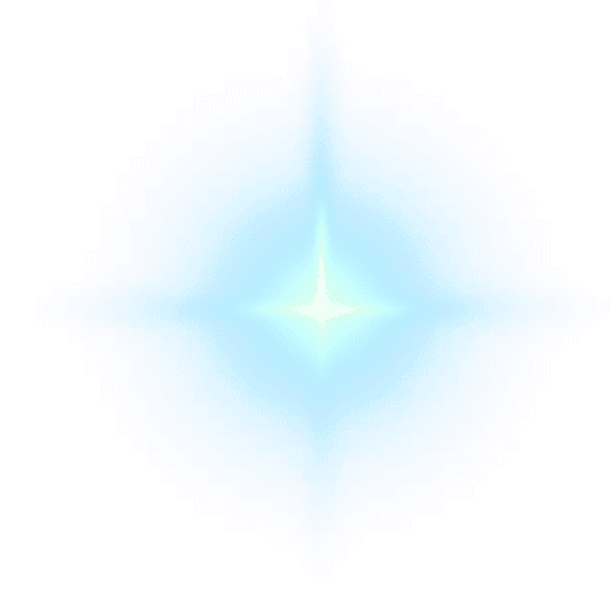
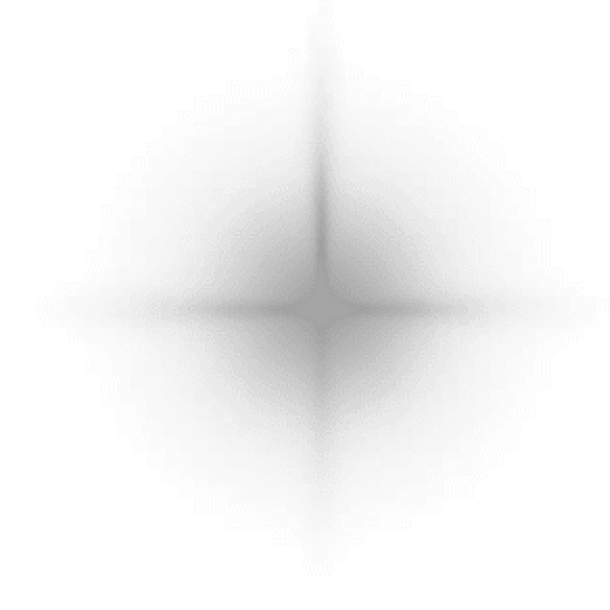
New light pic Small changes

Changed region(s): [[0.2492, 0.1869, 0.8098, 0.7475]]

diff --git a/test.galaxy.py b/test.galaxy.py
@@ -16,10 +16,16 @@ class Star(object):
         self.radius = None
         self.scale = 0.05
         self.sphere = Entity(model='sphere', collider='sphere', x=x, y=y, z=z, scale=self.scale, color=rgb(0, 0, 0, 0))
-        self.entity = [Sprite('tex/light', filtering=False, scale=self.scale, color=c, x=x, y=y, z=z, double_sided=True, rotation=(0, 0, 0))]
+        self.entity = []
+        self.entity.append(Sprite('tex/light', filtering=False, scale=self.scale, color=c, x=x, y=y, z=z, double_sided=True, rotation=(0, 0, 0)))
         self.entity.append(Sprite('tex/light', filtering=False, scale=self.scale, color=c, x=x, y=y, z=z, double_sided=True, rotation=(0, 90, 0)))
         self.entity.append(Sprite('tex/light', filtering=False, scale=self.scale, color=c, x=x, y=y, z=z, double_sided=True, rotation=(0, 0, 90)))
         self.entity.append(Sprite('tex/light', filtering=False, scale=self.scale, color=c, x=x, y=y, z=z, double_sided=True, rotation=(90, 0, 0)))
+
+        # Rotation 45°
+        self.entity.append(Sprite('tex/light', filtering=False, scale=self.scale, color=c, x=x, y=y, z=z, double_sided=True, rotation=(0, 45, 0)))
+        self.entity.append(Sprite('tex/light', filtering=False, scale=self.scale, color=c, x=x, y=y, z=z, double_sided=True, rotation=(0, 0, 45)))
+        self.entity.append(Sprite('tex/light', filtering=False, scale=self.scale, color=c, x=x, y=y, z=z, double_sided=True, rotation=(45, 0, 0)))
 
         self.connection = 0
         self.nearest_star = []
@@ -29,14 +35,15 @@ class Star(object):
         self.text.visible = False
         s = 0
         z_temp = int(self.z * 10)
-        if z_temp <= -2:
-            s = 0.1
-        elif z_temp == -1:
-            s = 0.08
-        elif z_temp == 1:
-            s = 0.06
-        elif z_temp >= 2:
-            s = 0.04
+        s = 0.1
+        # if z_temp <= -2:
+        #     s = 0.17
+        # elif z_temp == -1:
+        #     s = 0.13
+        # elif z_temp == 1:
+        #     s = 0.1
+        # elif z_temp >= 2:
+        #     s = 0.07
 
         for e in self.entity:
             e.scale = s
@@ -57,24 +64,25 @@ EditorCamera()
 
 angle = 0
 radius = 0
-count = 100
+count = 25
 
 
 stars = []
 
 for _ in range(count):
     angle += 10/count
-    radius += .3
+    radius += .15
     x = np.sin(angle) * radius/10 + random.random()
     z = np.cos(angle) * radius/10 + random.random()
-    y = random.random()/2.5
+    y = random.random() / 6
     #Entity(model="sphere", scale=0.1, x=x, y=y, color=color.white)
-    stars.append(Star(x=x, y=y, z=z, c=color.white))
+    stars.append(Star(x=x, y=y, z=z, c=color.rgb(155 + random.randint(0, 100),  155 + random.randint(0, 100), 155 + random.randint(0, 100), 255)))
     x = -np.sin(angle) * radius/10 + random.random()
     z = -np.cos(angle) * radius/10 + random.random()
-    y = -random.random() / 2.5
+    y = -random.random()  / 6
     #Entity(model="sphere", scale=0.1, x=x, y=y, color=color.yellow)
-    stars.append(Star(x=x, y=y, z=z, c=color.white))
+    stars.append(Star(x=x, y=y, z=z, c=color.rgb(155 + random.randint(0, 100),  155 + random.randint(0, 100), 155 + random.randint(0, 100), 255)))
+#    stars.append(Star(x=x, y=y, z=z, c=color.white))
 
 
 cnt = 0
@@ -92,35 +100,39 @@ for star in stars:
             star.nearest_star.append(j)
 
 for star in stars:
+    #print(star.id, star.nearest_star[-1].id)
+    #print(star.z*10)
+    points = [Vec3(star.x, star.y, star.z), Vec3(star.nearest_star[-1].x, star.nearest_star[-1].y, star.nearest_star[-1].z)]
+    star_calc = int(star.z * 10)
+    t = 140
+    # if star_calc <= -2:
+    #     t = 140
+    # elif star_calc == -1:
+    #     t = 110
+    # elif star_calc == 1:
+    #     t = 80
+    # elif star_calc >= 2:
+    #     t = 50
+    # else:
+    #     t = 20
+    star.scale = t
+    #star.update()
+
     try:
-        #print(star.id, star.nearest_star[-1].id)
-        #print(star.z*10)
-        points = [Vec3(star.x, star.y, star.z), Vec3(star.nearest_star[-1].x, star.nearest_star[-1].y, star.nearest_star[-1].z)]
-        star_calc = int(star.z * 10)
-        if star_calc <= -2:
-            t = 96
-        elif star_calc == -1:
-            t = 64
-        elif star_calc == 1:
-            t = 48
-        elif star_calc >= 2:
-            t = 32
-        else:
-            t = 16
         Entity(model=Mesh(vertices=points, mode='line', thickness=2), color=rgb(0, 64, 255, t / 3))
         Entity(model=Mesh(vertices=points, mode='line', thickness=1), color=rgb(255, 255, 255, t / 3))
         #print(star.id, star.nearest_star[-2].id)
         points = [Vec3(star.x, star.y, star.z), Vec3(star.nearest_star[-2].x, star.nearest_star[-2].y, star.nearest_star[-2].z)]
         Entity(model=Mesh(vertices=points, mode='line', thickness=2), color=rgb(0, 64, 255, t / 3))
         Entity(model=Mesh(vertices=points, mode='line', thickness=1), color=rgb(255, 255, 255, t / 3))
-        #print(star.z)
+    #print(star.z)
     except:
         pass
 
 
 def update():
-    for star in stars:
-        star.update()
+    for s in stars:
+        s.update()
 
 
 def input(key):
@@ -128,16 +140,16 @@ def input(key):
 
     if mouse.left:
         pos_x = mouse.x
-        pos_y = mouse.y
+        #pos_y = mouse.y
     else:
         pos_x = 0
-        pos_y = 0
+        #pos_y = 0
 
     if pos_x < mouse.x:
-        print("<")
+        print(">")
         # rotate clockwise
     elif pos_x > mouse.x:
-        print(">")
+        print("<")
         # rotate counterclockwise
 
 
@@ -151,5 +163,5 @@ window.vsync = False
 #camera.rotation_z = 30
 camera.position = (0, 10, -20)
 camera.rotation_x = 25
-window.color = color.rgba(10, 10, 10, 0)
+window.color = color.rgba(16, 16, 16, 0)
 app.run()

diff --git a/test.system.py b/test.system.py
@@ -60,7 +60,7 @@ class Sun(object):
 class Background(object):
     def __init__(self):
         DirectionalLight(x=20, y=10, z=10, shadows=True, rotation=(45, -45, 45), color=color.rgba(100, 100, 100, 16))
-        Sky(model="sphere", double_sided=True, texture="tex/8k_stars", rotation=(0, 90, 0))
+        #Sky(model="sphere", double_sided=True, texture="tex/8k_stars", rotation=(0, 90, 0))
         #Entity(model='sphere', scale=50, texture="tex/8k_stars", double_sided=True, shader=lit_with_shadows_shader)
 
 
@@ -94,20 +94,13 @@ def mouse_action():
 
 
 def key_action():
-    if held_keys['e']:
-        camera.position += (0, time.dt, 0)
-    if held_keys['q']:
-        camera.position -= (0, time.dt, 0)
-    if held_keys['w']:
-        camera.position -= (0, 0, -time.dt)
-    if held_keys['s']:
-        camera.position -= (0, 0, time.dt)
-    if held_keys['a']:
-        camera.position -= (time.dt, 0, 0)
-    if held_keys['d']:
-        camera.position -= (-time.dt, 0, 0)
-    if held_keys['x']:
-        exit(0)
+    if held_keys['e']: camera.position += (0, time.dt, 0)
+    if held_keys['q']: camera.position -= (0, time.dt, 0)
+    if held_keys['w']: camera.position -= (0, 0, -time.dt)
+    if held_keys['s']: camera.position -= (0, 0, time.dt)
+    if held_keys['a']: camera.position -= (time.dt, 0, 0)
+    if held_keys['d']: camera.position -= (-time.dt, 0, 0)
+    if held_keys['x']:  exit(0)
 
 
 def input(key):
@@ -153,5 +146,5 @@ if __name__ == '__main__':
     window.vsync = True
     camera.position = (0, 10, -20)
     camera.rotation_x = 25
-    window.color = color.rgba(10, 10, 10, 0)
+    window.color = color.rgba(32, 32, 32, 0)
     app.run()
